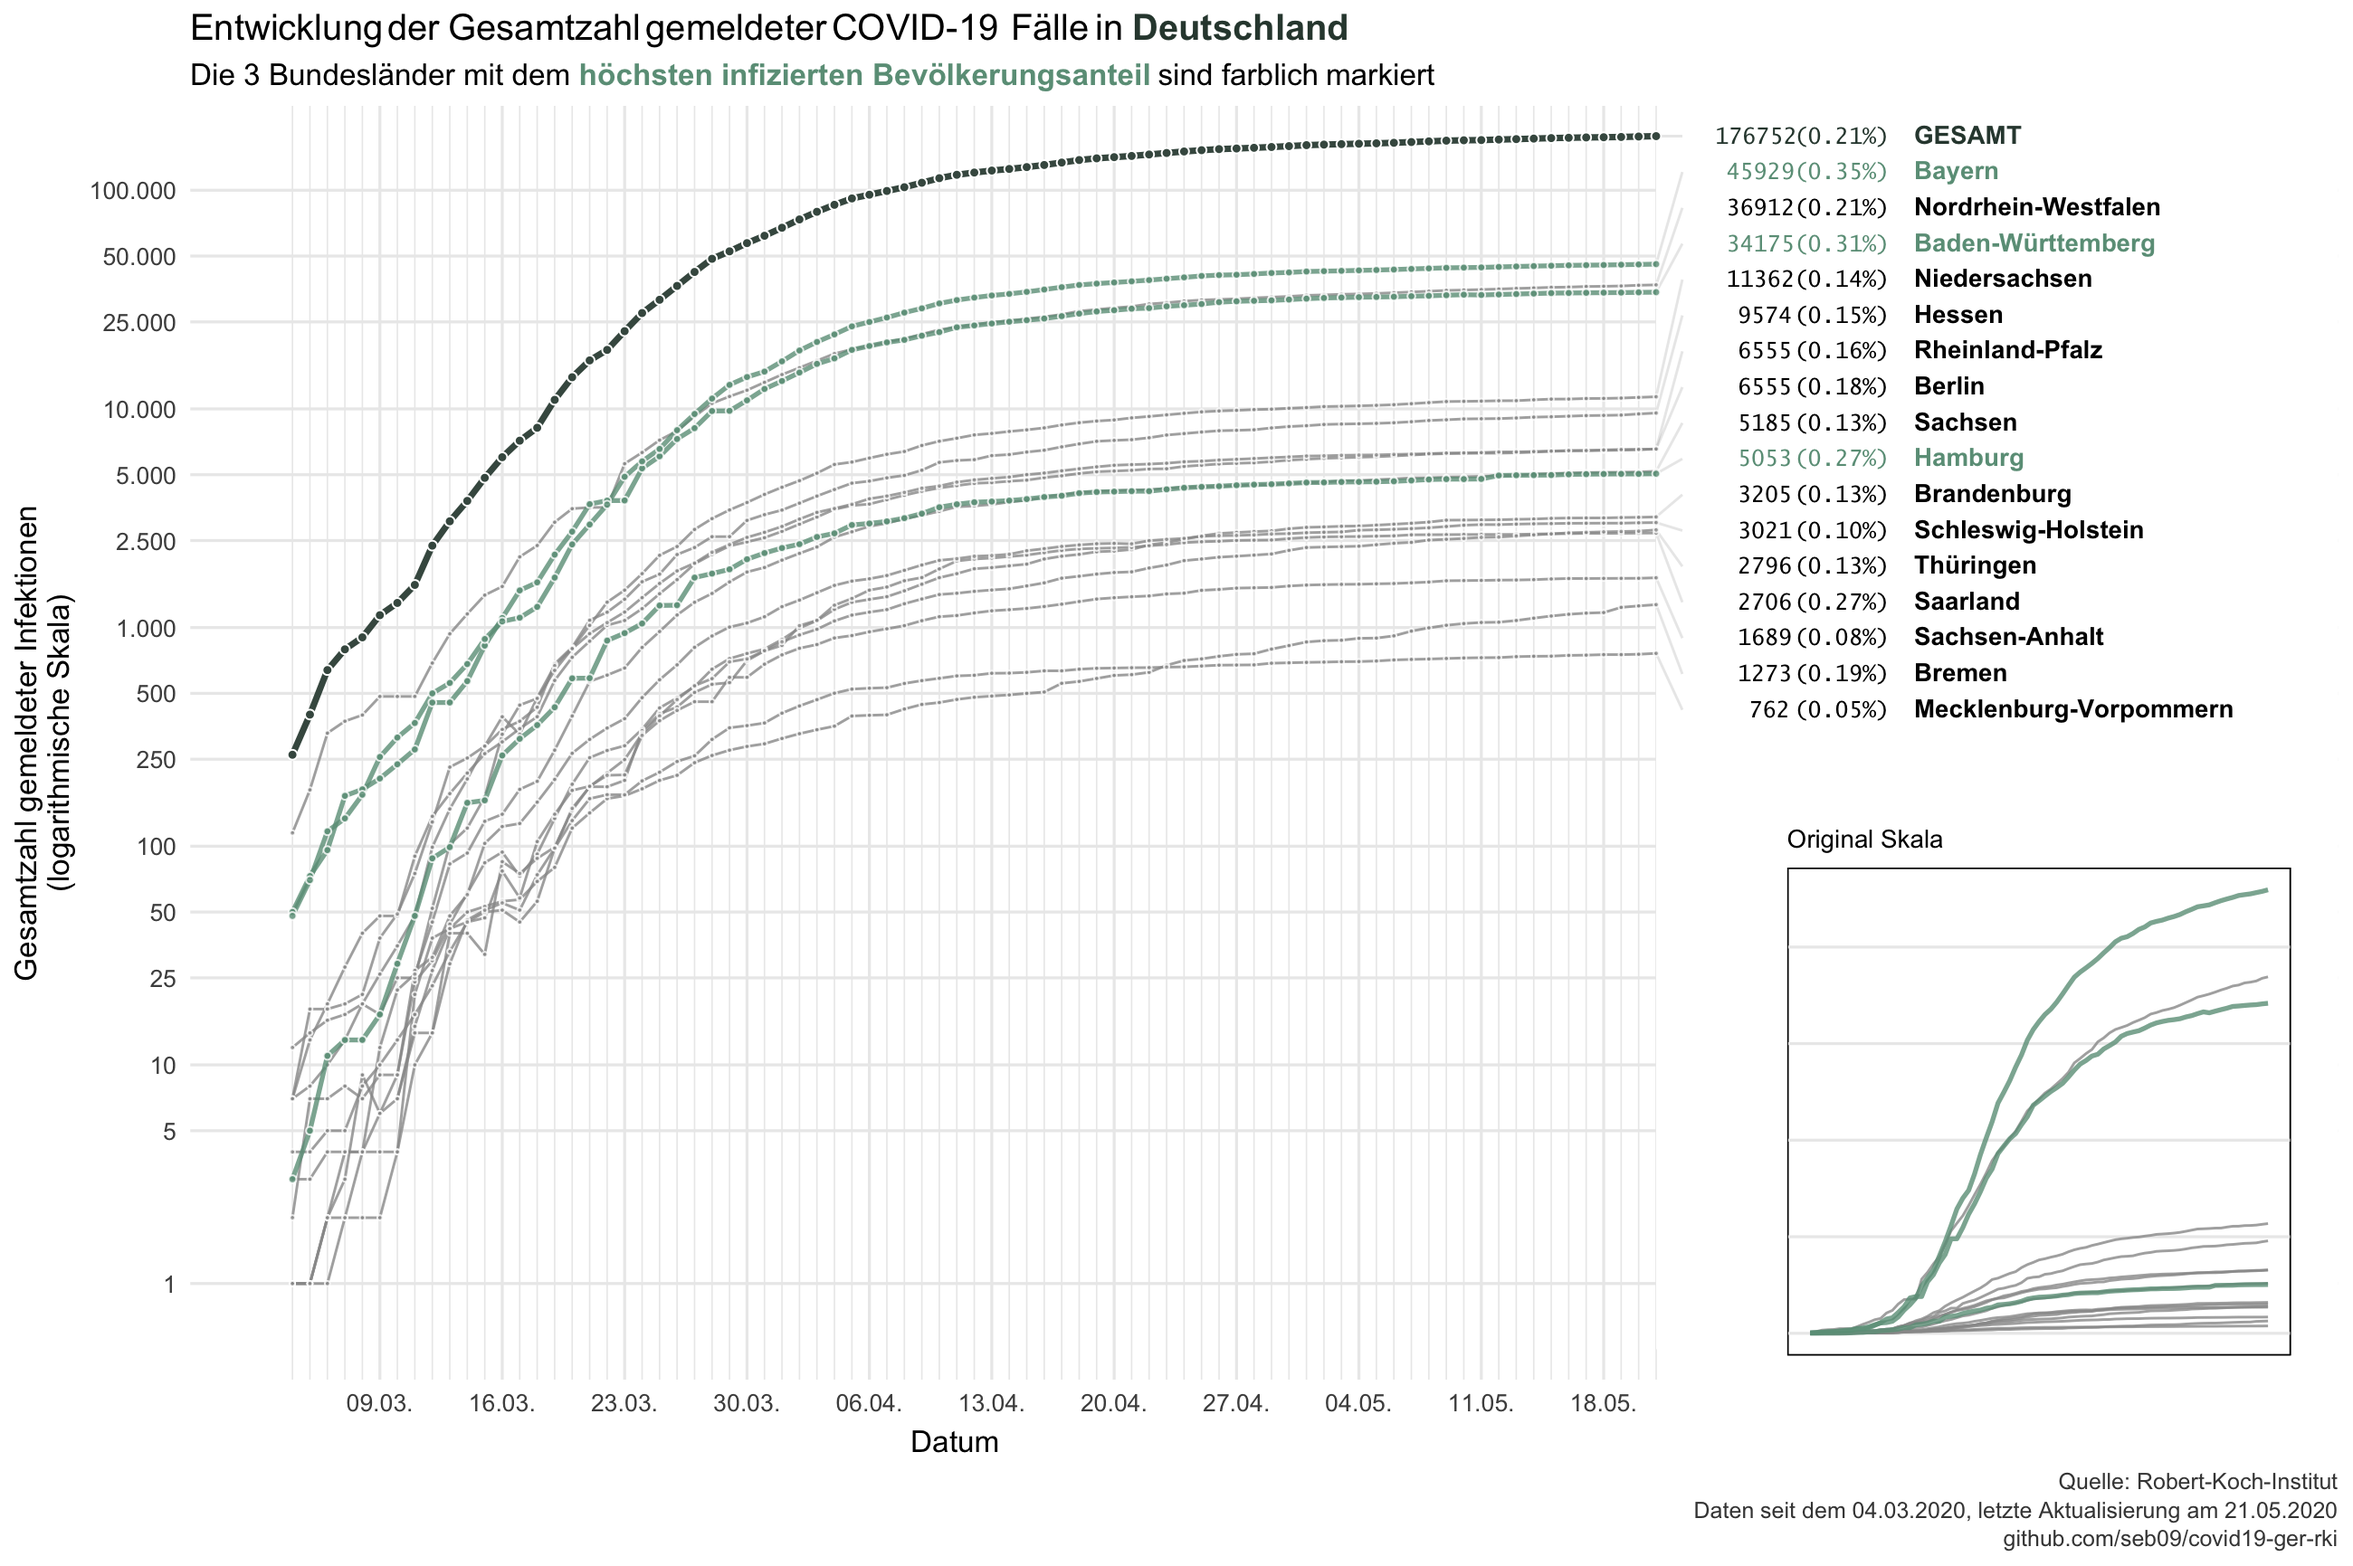
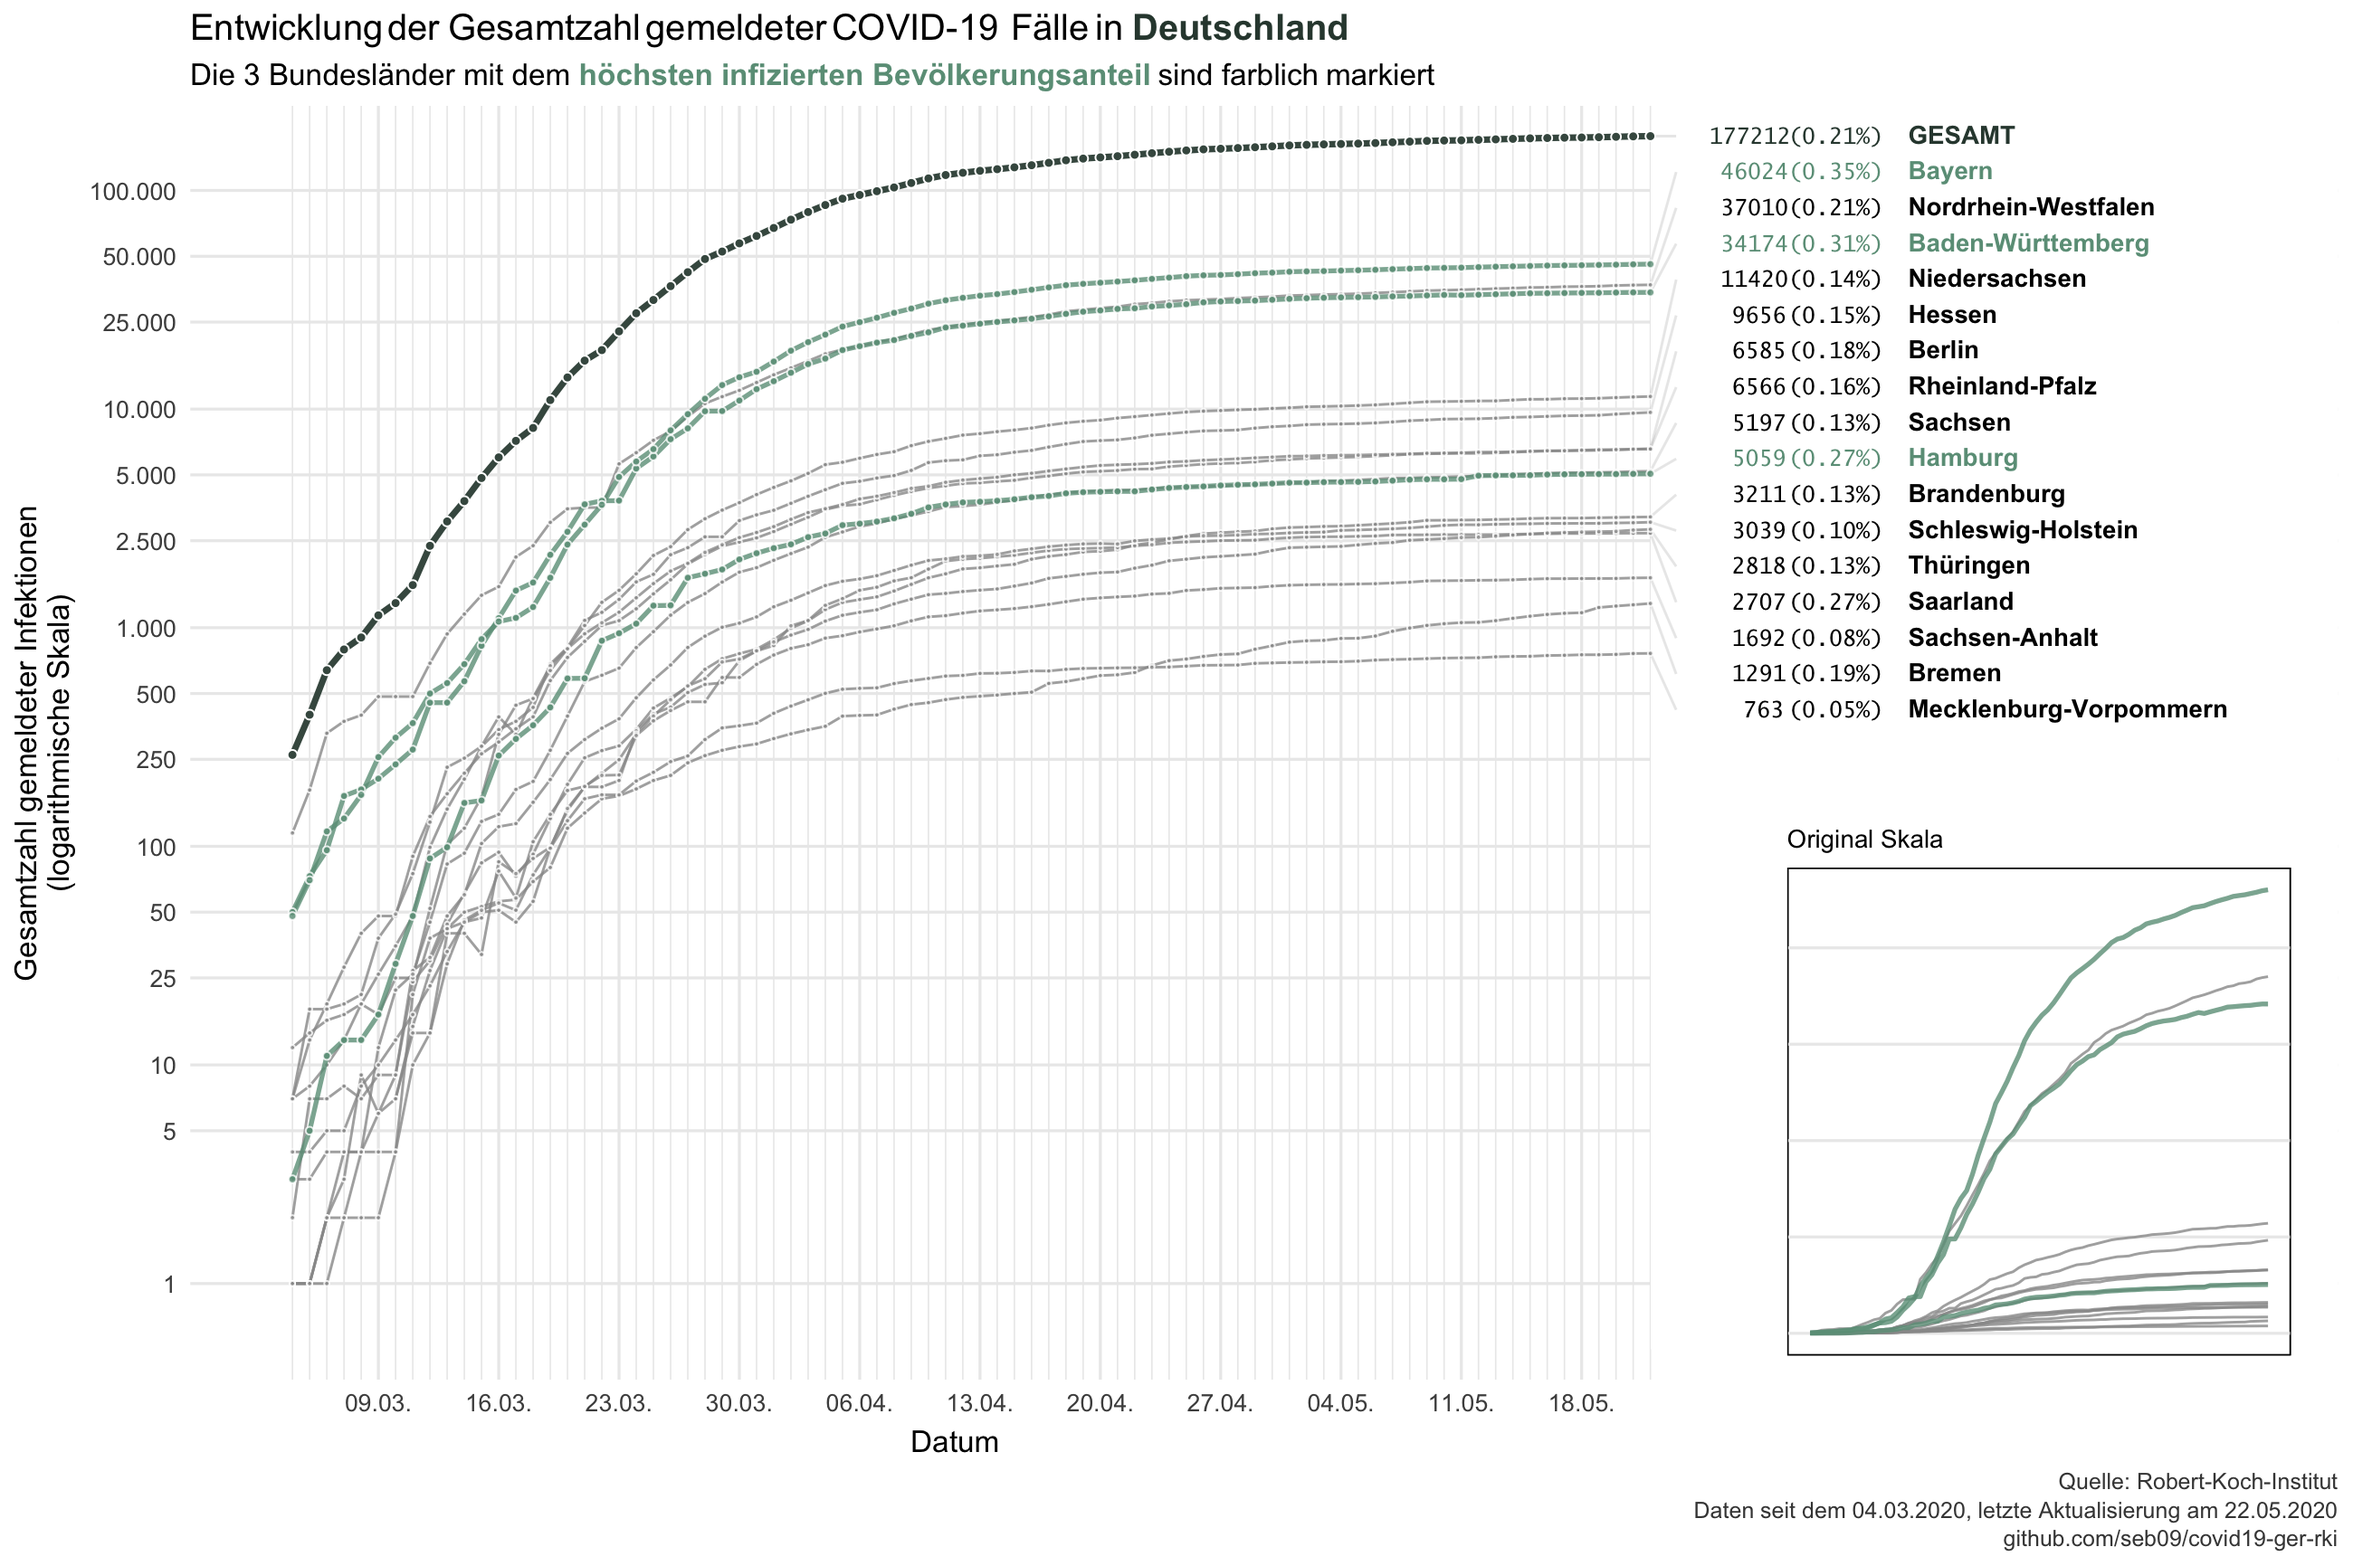
daily update 2020-05-22

diff --git a/README.md b/README.md
@@ -1,6 +1,6 @@
 Data from the Robert-Koch-Institut on COVID-19 in Germany
 ================
-Last update: 2020-05-21
+Last update: 2020-05-22
 
 This repository contains data on reported COVID-19 cases in Germany and
 its federal states that is published daily by the Robert-Koch-Institut
@@ -14,26 +14,26 @@ corona_rki %>%
   print(n = 16)
 ```
 
-    ## # A tibble: 1,258 x 6
+    ## # A tibble: 1,274 x 6
     ##    Datum      Bundesland      Fallzahl Todeszahl Fallzahl_neu Todeszahl_neu
     ##    <date>     <chr>              <dbl>     <dbl>        <dbl>         <dbl>
-    ##  1 2020-05-21 Baden-Württemb…    34175      1680           60             8
-    ##  2 2020-05-21 Bayern             45929      2348          163             9
-    ##  3 2020-05-21 Berlin              6555       186           48             0
-    ##  4 2020-05-21 Brandenburg         3205       151           12             0
-    ##  5 2020-05-21 Bremen              1273        39           17             1
-    ##  6 2020-05-21 Hamburg             5053       239           11             3
-    ##  7 2020-05-21 Hessen              9574       451           91             5
-    ##  8 2020-05-21 Mecklenburg-Vo…      762        20            7             0
-    ##  9 2020-05-21 Niedersachsen      11362       566           74             9
-    ## 10 2020-05-21 Nordrhein-West…    36912      1546          146             9
-    ## 11 2020-05-21 Rheinland-Pfalz     6555       224           26             2
-    ## 12 2020-05-21 Saarland            2706       157            3             3
-    ## 13 2020-05-21 Sachsen             5185       201           35             3
-    ## 14 2020-05-21 Sachsen-Anhalt      1689        54            9             0
-    ## 15 2020-05-21 Schleswig-Hols…     3021       134            7             3
-    ## 16 2020-05-21 Thüringen           2796       151           36             2
-    ## # … with 1,242 more rows
+    ##  1 2020-05-22 Baden-Württemb…    34174      1680           -1             0
+    ##  2 2020-05-22 Bayern             46024      2358           95            10
+    ##  3 2020-05-22 Berlin              6585       190           30             4
+    ##  4 2020-05-22 Brandenburg         3211       152            6             1
+    ##  5 2020-05-22 Bremen              1291        39           18             0
+    ##  6 2020-05-22 Hamburg             5059       240            6             1
+    ##  7 2020-05-22 Hessen              9656       457           82             6
+    ##  8 2020-05-22 Mecklenburg-Vo…      763        20            1             0
+    ##  9 2020-05-22 Niedersachsen      11420       568           58             2
+    ## 10 2020-05-22 Nordrhein-West…    37010      1547           98             1
+    ## 11 2020-05-22 Rheinland-Pfalz     6566       224           11             0
+    ## 12 2020-05-22 Saarland            2707       157            1             0
+    ## 13 2020-05-22 Sachsen             5197       203           12             2
+    ## 14 2020-05-22 Sachsen-Anhalt      1692        54            3             0
+    ## 15 2020-05-22 Schleswig-Hols…     3039       134           18             0
+    ## 16 2020-05-22 Thüringen           2818       151           22             0
+    ## # … with 1,258 more rows
 
 Data is downloaded each day at 11am from the [website of the
 RKI](https://www.rki.de/DE/Content/InfAZ/N/Neuartiges_Coronavirus/Fallzahlen.html)
